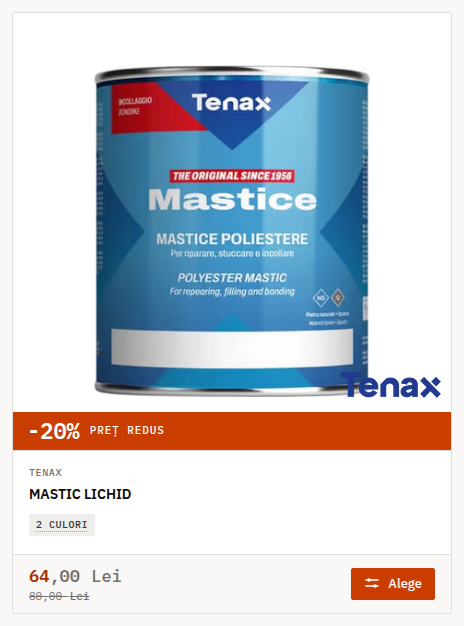
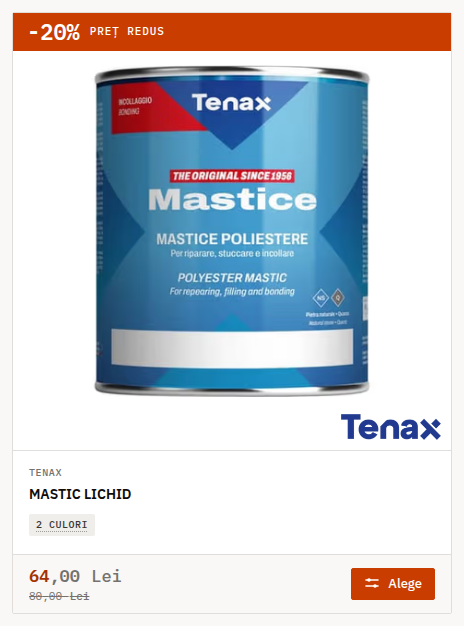
Tooltip etichete: valorile lungi se rup pe rand in interiorul bulei; propunerea C cu banderola sus, capturi lista lunga

Changed region(s): [[0.0302, 0.5767, 0.9957, 0.7284], [0.0302, 0.0, 0.9957, 0.0911]]

diff --git a/backend-storefront/src/styles/design-system.css b/backend-storefront/src/styles/design-system.css
@@ -1927,7 +1927,7 @@ a.badge:hover{transform:translateY(-1px)}
 .spec-tag--btn:focus{outline:none}
 .spec-tag--btn:focus-visible{box-shadow:var(--focus-ring)}
 .spec-tip{position:relative;display:inline-flex}
-.spec-tip__bubble{position:absolute;left:0;bottom:calc(100% + 7px);z-index:30;display:flex;flex-direction:column;gap:2px;min-width:88px;max-width:220px;padding:7px 10px;background:var(--stone-900);color:#fff;border-radius:var(--r-md);box-shadow:var(--sh-md);font-family:var(--f-sans);font-size:12px;line-height:1.35;text-align:left;white-space:nowrap;opacity:0;visibility:hidden;transform:translateY(2px);transition:opacity 100ms,transform 100ms,visibility 0s linear 100ms;pointer-events:none}
+.spec-tip__bubble{position:absolute;left:0;bottom:calc(100% + 7px);z-index:30;display:flex;flex-direction:column;gap:2px;width:max-content;min-width:88px;max-width:220px;padding:7px 10px;background:var(--stone-900);color:#fff;border-radius:var(--r-md);box-shadow:var(--sh-md);font-family:var(--f-sans);font-size:12px;line-height:1.35;text-align:left;white-space:normal;opacity:0;visibility:hidden;transform:translateY(2px);transition:opacity 100ms,transform 100ms,visibility 0s linear 100ms;pointer-events:none}
 .spec-tip__bubble::after{content:"";position:absolute;top:100%;left:12px;border:5px solid transparent;border-top-color:var(--stone-900)}
 .spec-tip.align-end .spec-tip__bubble{left:auto;right:0}
 .spec-tip.align-end .spec-tip__bubble::after{left:auto;right:12px}

diff --git a/docs/mockups/reducere-card/README.md b/docs/mockups/reducere-card/README.md
@@ -4,6 +4,8 @@ Mockupuri pe cardul real (Mastic Lichid, preturi reale din catalog: 64,00 Lei, i
 
 - **A — insigna mare pe imagine** (`propunere-A-*.png`): aceeasi insigna din colt, dar de ~2x (20px, bold, umbra usoara), cu pretul nou colorat si cel vechi taiat; cea mai mica schimbare, tiparul clasic al magazinelor de moda si casa.
 - **B — reducerea langa pret** (`propunere-B-*.png`): insigna pleaca de pe imagine si sta langa pret, cu pretul vechi taiat si „Economisești 16,00 Lei”; urmeaza cercetarea Baymard ca oferta se intelege cand sta grupata langa pret.
-- **C — banderola pe imagine** (`propunere-C-*.png`): banda pe toata latimea, la baza imaginii, „-20% PREȚ REDUS”, plus pretul colorat si cel vechi taiat; cea mai vizibila in grila, se vede de la distanta.
+- **C — banderola pe imagine** (`propunere-C-*.png`): banda pe toata latimea, sus pe imagine, „-20% PREȚ REDUS”, plus pretul colorat si cel vechi taiat; cea mai vizibila in grila, se vede de la distanta.
 
-Surse: [Baymard — discounturi pe pagina de produs](https://baymard.com/blog/product-page-price-discounts), [Baymard — 10 practici UX pentru reduceri](https://baymard.com/blog/10-sales-ux-best-practices), [Baymard — badge-uri UI](https://baymard.com/blog/badge-ui), [ecommerceguide — tiparul price promo](https://ecommerceguide.com/patterns/price-promo/), [Google Merchant — adnotari de pret redus](https://support.google.com/merchants/answer/9017019).
+Cercetarea a fost scurta (cautari web si rezumatele lor, fara analiza pe magazine anume); sursele folosite: [Baymard — discounturi pe pagina de produs](https://baymard.com/blog/product-page-price-discounts), [Baymard — 10 practici UX pentru reduceri](https://baymard.com/blog/10-sales-ux-best-practices), [Baymard — badge-uri UI](https://baymard.com/blog/badge-ui), [ecommerceguide — tiparul price promo](https://ecommerceguide.com/patterns/price-promo/), [Google Merchant — adnotari de pret redus](https://support.google.com/merchants/answer/9017019).
+
+Observatie: la Mastic Solid insigna arata -20% fara pret vechi taiat (reducerea e pe alta varianta decat cea cu pretul minim afisat); de decis odata cu insigna.
